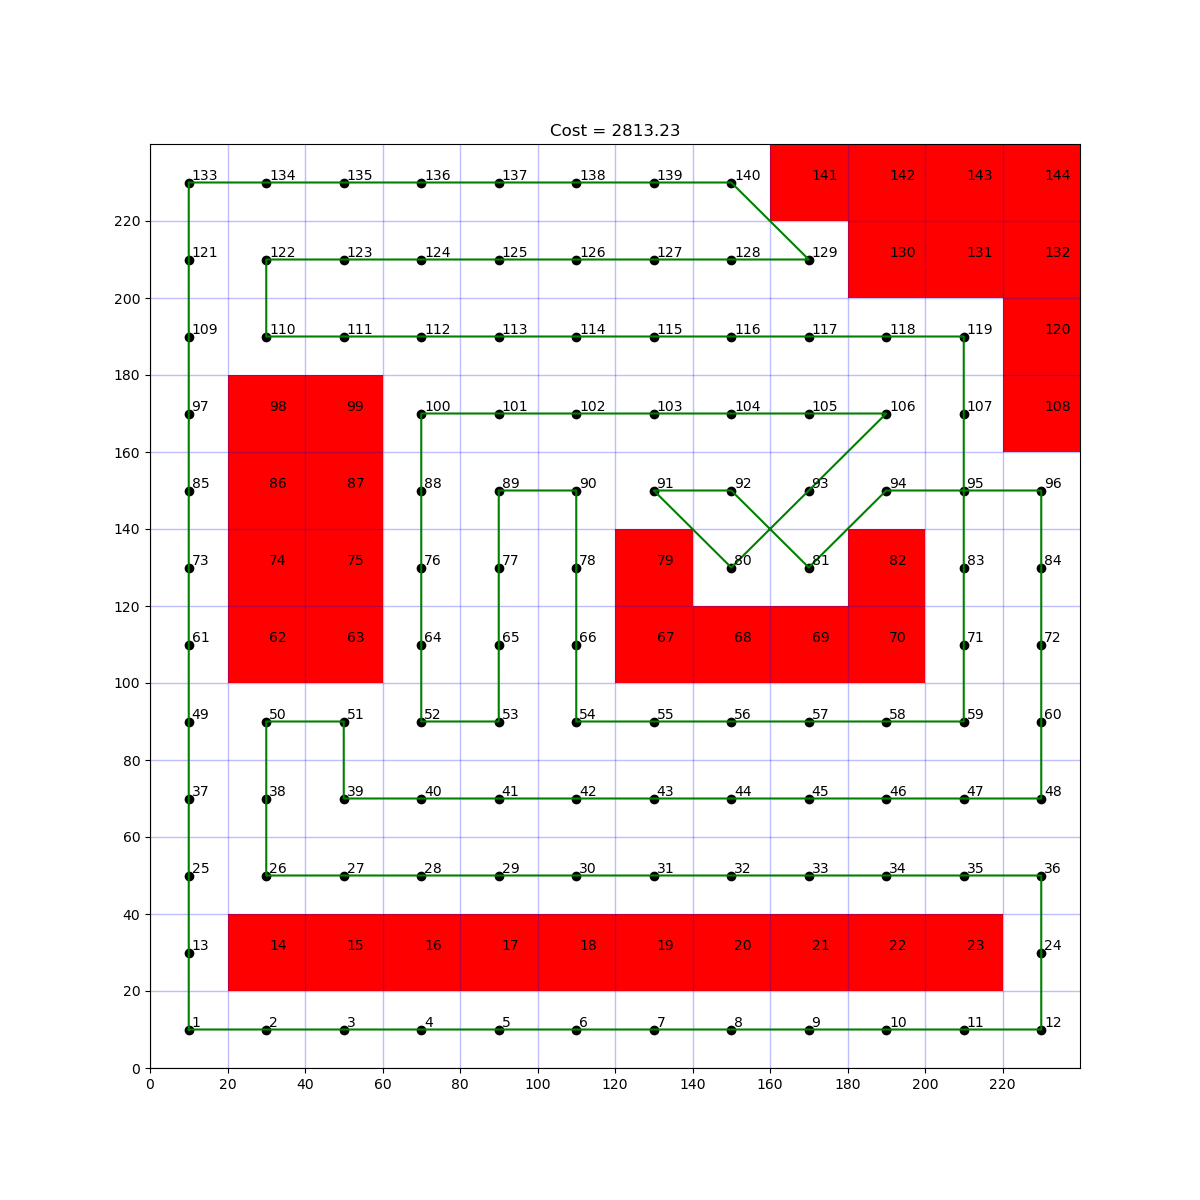
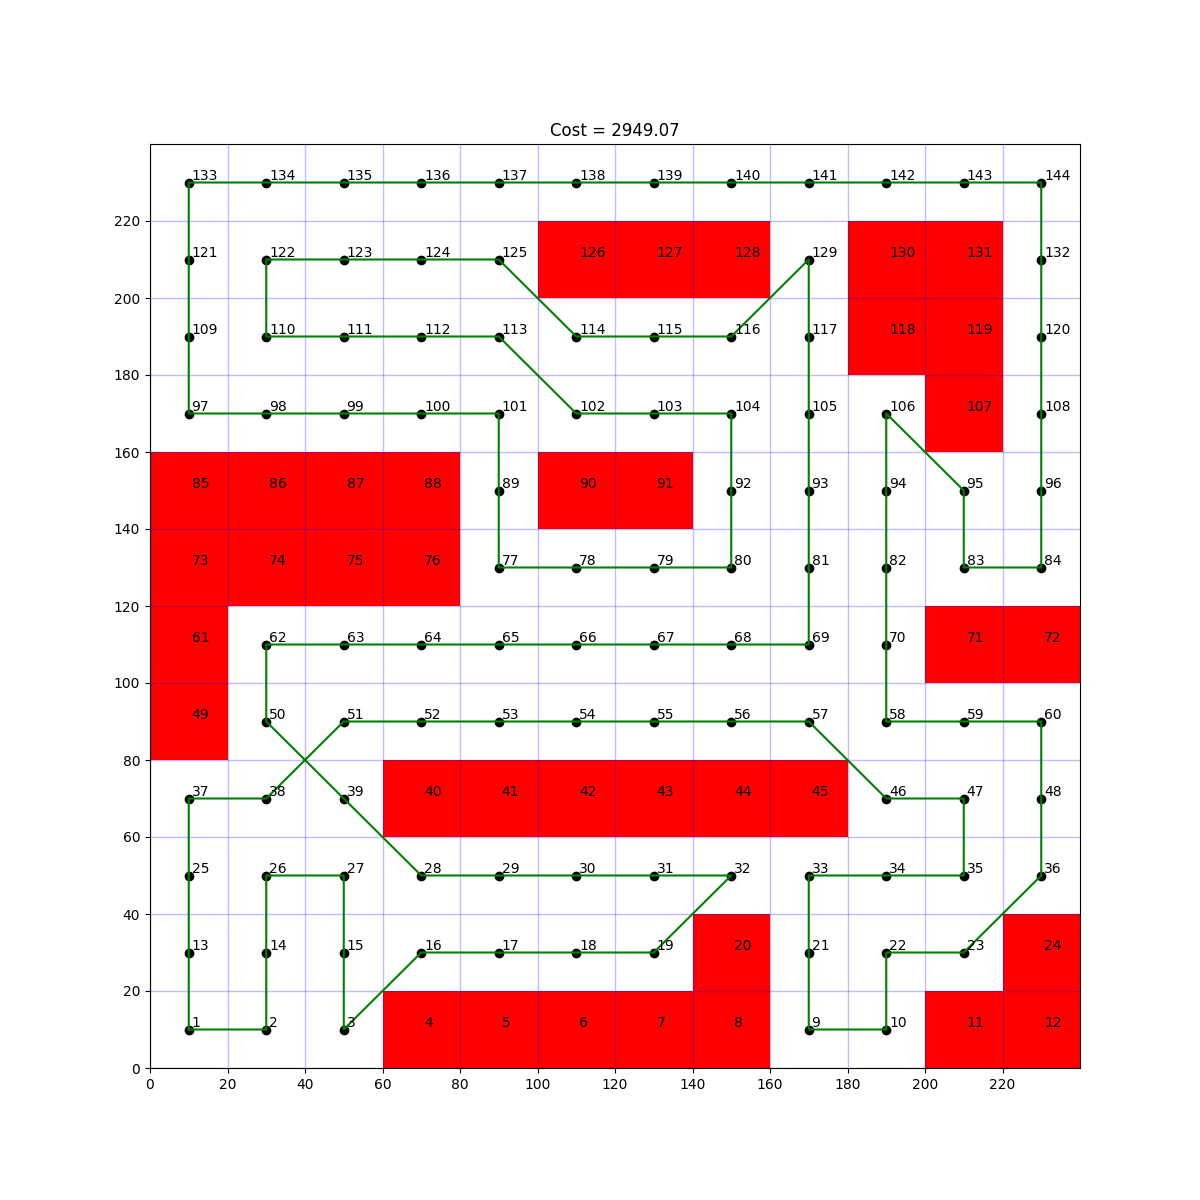
experimentos

diff --git a/model.py b/model.py
@@ -6,9 +6,9 @@ import heapq
 from numpy import ubyte
 import time
 
-mapaqtd = 13 #5
+mapaqtd = 11 #5
 
-for i in range(0, 1):
+for i in range(0, 6):
   mapaqtd += 1
   mapas = f'{mapaqtd*mapaqtd}_pontos/mapas{mapaqtd}.txt'
 
@@ -27,11 +27,11 @@ for i in range(0, 1):
 
   coord = [(float(x), float(y), float(z)) for cidade, x, y, z in coord]
 
-  versao = 2 # Versão do arquivo
+  versao = 0 # Versão do arquivo
 
-  for k in range(0, 1):
+  for k in range(0, qtdobs):
     inicio = time.time()
-    obstaculos_indices = [int(celula) for celula in linhas[-qtdobs+2].split()]  # Lista de células a serem evitadas
+    obstaculos_indices = [int(celula) for celula in linhas[-qtdobs+k].split()]  # Lista de células a serem evitadas
     print("Obstáculos: ", obstaculos_indices)
 
     obstaculos = [coord[i] for i in obstaculos_indices] # Coordenadas dos obstáculos
@@ -159,8 +159,6 @@ for i in range(0, 1):
         altitudes[i][j] = alt[j]
         all_angles[i][j] = angles[j]
         matrix[i][j] = print_and_return_path(parent, j)
-        if i == 2 and j == 137:
-          print("matrix[",i,"][",j,"] = ", distancias[i][j])
 
     # Chamar o algoritmo de Dijkstra para variar nos vértices válidos
     for i in validos:
@@ -179,13 +177,10 @@ for i in range(0, 1):
       for j in validos:
         for k in validos:
           if (c[i][j] == float('inf') and c[j][k] == float('inf')) and i!=j and j!=k:
-            print("primeiro if q[",i,"][",j,"][",k,"] = ", q[i][j][k])
-            print("tamanho matrix: ", matrix[j][k])
             q[i][j][k] = (all_angles[i][j] + all_angles[j][k]) + (q[matrix[i][j][len(matrix[i][j])-2]][j][matrix[j][k][1]])
           elif (c[i][j] == float('inf') and c[j][k] != float('inf')) and i!=j and j!=k:
             q[i][j][k] = (all_angles[i][j] + all_angles[j][k]) + q[matrix[j][k][1]][j][k]
           elif (c[i][j] != float('inf') and c[j][k] == float('inf')) and i!=j and j!=k:
-            print("terceiro if q[",i,"][",j,"][",k,"] = ", q[i][j][k])
             q[i][j][k] = (all_angles[i][j] + all_angles[j][k]) + q[i][j][matrix[i][j][len(matrix[i][j])-2]]
           
 
@@ -226,7 +221,7 @@ for i in range(0, 1):
             for k in validos:
                 modelo.addConstr(y[i, j, k] >= (x[j, k] + x[i, j] - 1))
 
-    modelo.Params.timeLimit = 7200
+    modelo.Params.timeLimit = 3600
     modelo.optimize()
 
     OTIMO = True
